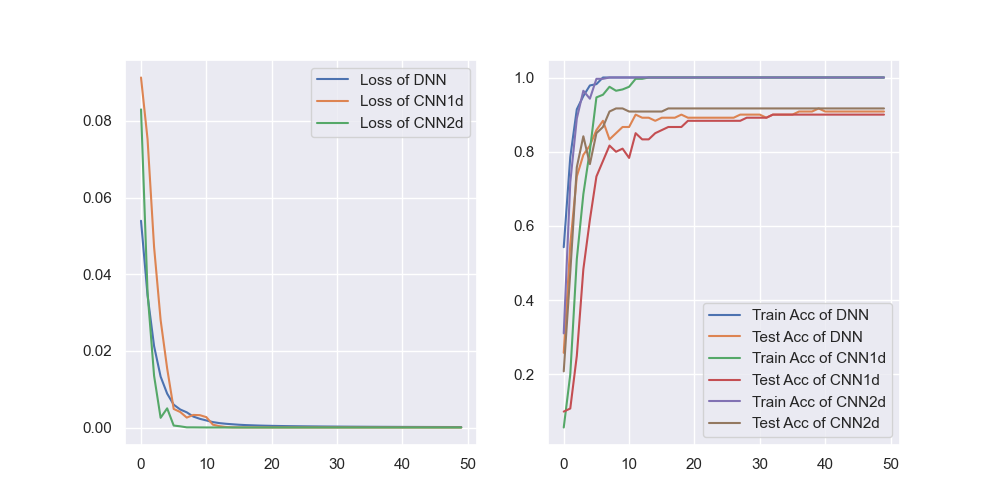
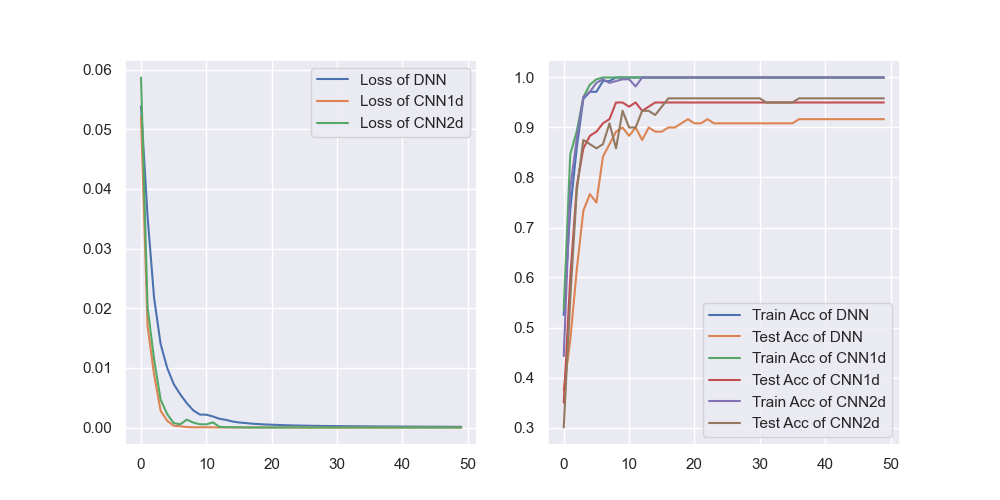
Update to 0.0.3

diff --git a/pydynet/util.py b/pydynet/util.py
@@ -1,0 +1,114 @@
+from numpy.random import permutation
+
+
+class Dataset:
+    def __init__(self) -> None:
+        pass
+
+    def __getitem__(self, index):
+        raise NotImplementedError
+
+    def __len__(self):
+        raise NotImplementedError
+
+
+class Sampler:
+    def __init__(self, dataset: Dataset) -> None:
+        pass
+
+    def __iter__(self):
+        raise NotImplementedError
+
+
+class SequentialSampler(Sampler):
+    def __init__(self, dataset: Dataset) -> None:
+        self.dataset = dataset
+
+    def __iter__(self):
+        return iter(range(len(self.dataset)))
+
+    def __len__(self) -> int:
+        return len(self.dataset)
+
+
+class RandomSampler(Sampler):
+    def __init__(self, dataset: Dataset) -> None:
+        self.dataset = dataset
+
+    def __iter__(self):
+        yield from permutation(len(self.dataset)).tolist()
+
+    def __len__(self):
+        return len(self.dataset)
+
+
+class BatchSampler(Sampler):
+    def __init__(self, sampler: Sampler, batch_size: int,
+                 drop_last: bool) -> None:
+        self.sampler = sampler
+        self.batch_size = batch_size
+        self.drop_last = drop_last
+
+    def __iter__(self):
+        batch = []
+        for idx in self.sampler:
+            batch.append(idx)
+            if len(batch) == self.batch_size:
+                yield batch
+                batch = []
+        if len(batch) > 0 and not self.drop_last:
+            yield batch
+
+    def __len__(self):
+        if self.drop_last:
+            return len(self.sampler) // self.batch_size
+        return (len(self.sampler) + self.batch_size - 1) // self.batch_size
+
+
+class _DataLoaderIter:
+    def __init__(self, loader) -> None:
+        self.loader = loader
+        self.sample_iter = iter(self.loader.batch_sampler)
+
+    def __next__(self):
+        index = next(self.sample_iter)
+        return self.loader.dataset[index]
+
+
+class DataLoader:
+    def __init__(self,
+                 dataset: Dataset,
+                 batch_size: int = 1,
+                 shuffle: bool = False,
+                 drop_last: bool = False) -> None:
+        self.dataset = dataset
+        self.batch_size = batch_size
+        self.shuffle = shuffle
+        self.drop_last = drop_last
+
+        if shuffle:
+            self.sampler = RandomSampler(dataset)
+        else:
+            self.sampler = SequentialSampler(dataset)
+
+        self.batch_sampler = BatchSampler(self.sampler, batch_size, drop_last)
+        self.batch_size = batch_size
+        self.drop_last = drop_last
+
+    def __iter__(self):
+        return _DataLoaderIter(self)
+
+
+def train_loader(X, y, batch_size: int, shuffle: bool = False) -> list:
+    class TrainSet(Dataset):
+        def __init__(self, X, y) -> None:
+            self.data = X
+            self.target = y
+
+        def __getitem__(self, index):
+            return self.data[index], self.target[index]
+
+        def __len__(self):
+            return len(self.data)
+
+    return DataLoader(TrainSet(X, y), batch_size, shuffle)

diff --git a/pydynet/functional.py b/pydynet/functional.py
@@ -119,25 +119,24 @@ class __im2col1d(UnaryOperator):
         self.kernel_size = kernel_size
         self.stride = stride
         self.n_output = (self.n_features - self.kernel_size) // stride + 1
-        self.size = x.data.itemsize
         super().__init__(x)
 
     def forward(self, x: Tensor) -> np.ndarray:
-        return np.lib.stride_tricks.as_strided(
-            x,
-            shape=(self.N, self.in_channels, self.n_output, self.kernel_size),
-            strides=(self.size * self.in_channels * self.n_features,
-                     self.size * self.n_features, self.size * self.stride,
-                     self.size),
-        )
+        col = np.zeros((self.N, self.in_channels, self.n_output,self.kernel_size))
+
+        for i in range(self.kernel_size):
+            i_max = i + self.n_output * self.stride
+            col[..., i] = x.data[..., i:i_max:self.stride]
+        
+        return col
 
     def grad_fn(self, x: Tensor, grad: np.ndarray) -> np.ndarray:
-        return np.lib.stride_tricks.as_strided(
-            grad,
-            shape=x.shape,
-            strides=(self.in_channels * self.n_features * self.size,
-                     self.n_features * self.size, self.size),
-        )
+        grad_x = np.zeros((self.N, self.in_channels, self.n_features))
+        for i in range(self.kernel_size):
+            i_max = i + self.n_output * self.stride
+            grad_x[..., i:i_max:self.stride] += grad[..., i]
+
+        return grad_x
 
 
 class __pad1d(UnaryOperator):

diff --git a/examples/CNN.py b/examples/CNN.py
@@ -9,7 +9,7 @@ from pydynet.tensor import Tensor
 import pydynet.functional as F
 import pydynet.nn as nn
 from pydynet.optimizer import Adam
-from pydynet.dataloader import train_loader
+from pydynet.util import train_loader
 
 try:
     import seaborn as sns
@@ -17,7 +17,7 @@ try:
 except:
     pass
 
-np.random.seed(0)
+np.random.seed(42)
 
 data_X, data_y = fetch_olivetti_faces(return_X_y=True)
 data_y = OneHotEncoder(sparse=False).fit_transform(data_y.reshape(-1, 1))
@@ -76,6 +76,9 @@ class CNN2d(nn.Module):
 net1 = DNN()
 net2 = CNN1d()
 net3 = CNN2d()
+print(net1)
+print(net2)
+print(net3)
 optim1 = Adam(net1.parameters(), lr=0.01)
 optim2 = Adam(net2.parameters(), lr=0.01)
 optim3 = Adam(net3.parameters(), lr=0.01)
@@ -86,17 +89,14 @@ loss_list1, loss_list2, loss_list3 = [], [], []
 train_acc1, train_acc2, train_acc3 = [], [], []
 test_acc1, test_acc2, test_acc3 = [], [], []
 
+loader = train_loader(train_X, train_y, BATCH_SIZE, True)
+
 for epoch in range(EPOCHES):
     # 相同数据训练3个网络
     net1.train()
     net2.train()
     net3.train()
-    for batch_X, batch_y in train_loader(
-            train_X,
-            train_y,
-            batch_size=BATCH_SIZE,
-            shuffle=True,
-    ):
+    for batch_X, batch_y in loader:
         node_y = Tensor(batch_y)
 
         output1 = net1(Tensor(batch_X))

diff --git a/examples/dropout_BN.py b/examples/dropout_BN.py
@@ -9,7 +9,7 @@ from pydynet.tensor import Tensor
 import pydynet.functional as F
 import pydynet.nn as nn
 from pydynet.optimizer import Adam
-from pydynet.dataloader import train_loader
+from pydynet.util import train_loader
 
 try:
     import seaborn as sns
@@ -75,6 +75,9 @@ optim3 = Adam(net3.parameters(), lr=0.01)
 loss = nn.CrossEntropyLoss()
 EPOCHES = 50
 BATCH_SIZE = 32
+
+loader = train_loader(train_X, train_y, BATCH_SIZE, True)
+
 loss_list1, loss_list2, loss_list3 = [], [], []
 train_acc1, train_acc2, train_acc3 = [], [], []
 test_acc1, test_acc2, test_acc3 = [], [], []
@@ -84,12 +87,7 @@ for epoch in range(EPOCHES):
     net1.train()
     net2.train()
     net3.train()
-    for batch_X, batch_y in train_loader(
-            train_X,
-            train_y,
-            batch_size=BATCH_SIZE,
-            shuffle=True,
-    ):
+    for batch_X, batch_y in loader:
         node_y = Tensor(batch_y)
 
         output1 = net1(Tensor(batch_X))

diff --git a/examples/RNN.py b/examples/RNN.py
@@ -2,7 +2,7 @@ from pydynet.tensor import Tensor
 import pydynet.functional as F
 import pydynet.nn as nn
 from pydynet.optimizer import Adam
-from pydynet.dataloader import train_loader
+from pydynet.util import train_loader
 
 import numpy as np
 import matplotlib.pyplot as plt
@@ -55,17 +55,13 @@ optim = Adam(net.parameters(), lr=0.01)
 loss = nn.CrossEntropyLoss()
 EPOCHES = 50
 BATCH_SIZE = 32
+loader = train_loader(train_X, train_y, BATCH_SIZE, True)
 
 loss_list, train_acc, test_acc = [], [], []
 
 for epoch in range(EPOCHES):
     net.train()
-    for batch_X, batch_y in train_loader(
-            train_X,
-            train_y,
-            batch_size=BATCH_SIZE,
-            shuffle=True,
-    ):
+    for batch_X, batch_y in loader:
         output = net(Tensor(batch_X))
         l = loss(output, batch_y)
         optim.zero_grad()

diff --git a/examples/DNN.py b/examples/DNN.py
@@ -15,7 +15,7 @@ from pydynet.tensor import Tensor
 import pydynet.functional as F
 import pydynet.nn as nn
 from pydynet.optimizer import Adam
-from pydynet.dataloader import train_loader
+from pydynet.util import train_loader
 
 np.random.seed(42)
 
@@ -55,16 +55,14 @@ loss = nn.CrossEntropyLoss()
 EPOCHES = 50
 BATCH_SIZE = 32
 
+loader = train_loader(train_X, train_y, BATCH_SIZE, True)
+
 loss_list, train_acc, test_acc = [], [], []
 
 for epoch in range(EPOCHES):
     net.train()
-    for batch_X, batch_y in train_loader(
-            train_X,
-            train_y,
-            batch_size=BATCH_SIZE,
-            shuffle=True,
-    ):
+    train_loss = 0.
+    for batch_X, batch_y in loader:
         output = net(Tensor(batch_X))
         l = loss(output, batch_y)
         optim.zero_grad()

diff --git a/pydynet/tensor.py b/pydynet/tensor.py
@@ -149,7 +149,7 @@ class Tensor:
         return reshape(self, new_shape)
 
     def transpose(self, *axes):
-        return transpose(self, axes)
+        return transpose(self, axes if len(axes) != 0 else None)
 
     def max(self, axis=None):
         return max(self, axis)
@@ -371,6 +371,13 @@ class Tensor:
     def zero_grad(self):
         '''梯度归零'''
         self.grad = np.zeros(self.shape)
+
+    def numpy(self)->np.ndarray:
+        '''返回Tensor的内部数据，即NumPy数组(拷贝)'''
+        return self.data.copy()
+
+    def item(self):
+        return self.data.item()
 
 
 class UnaryOperator(Tensor):

diff --git a/setup.py b/setup.py
@@ -2,7 +2,7 @@ import setuptools
 
 setuptools.setup(
     name='pydynet',
-    version='0.0.2',
+    version='0.0.3',
     description=
     'Neuron network(DNN, CNN, RNN, etc) implementation using Numpy based on autodiff',
     author_email="191300064@smail.nju.edu.cn",
